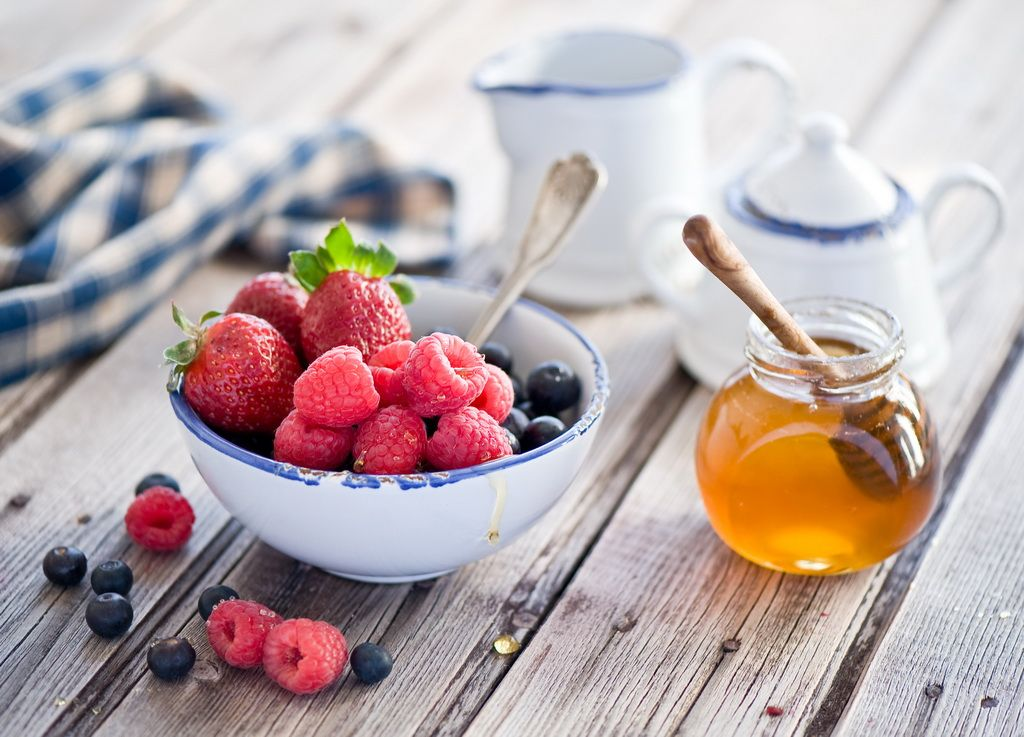
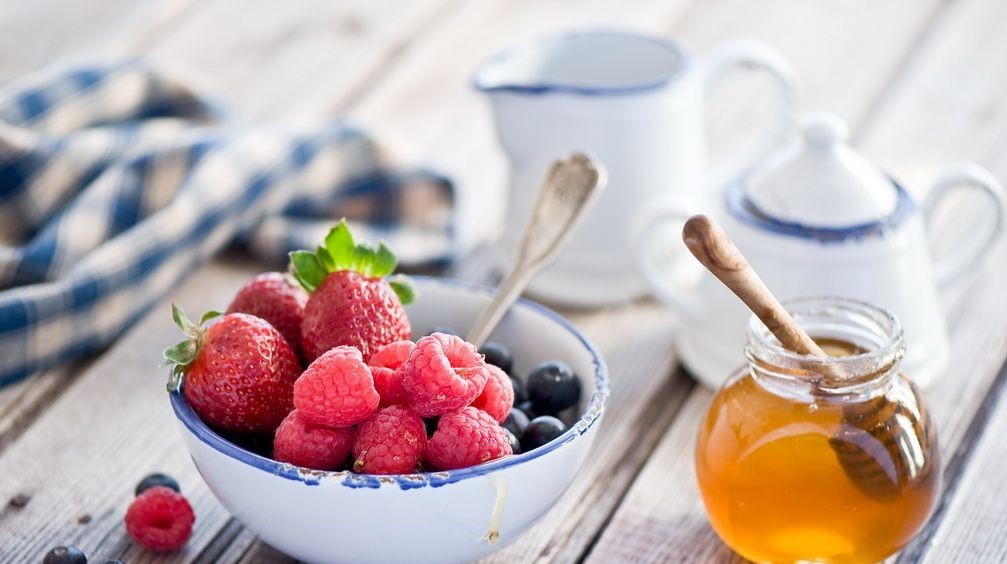
footer update

diff --git a/css/styl.css b/css/styl.css
@@ -46,7 +46,7 @@ html{
     min-height: 100%;
 }
 #carousel{
-   min-height: 45vh;
-    max-height: 65vh;
+   min-height: 40vh;
 }
+
 

diff --git a/Views/TemplateBasics.class.php b/Views/TemplateBasics.class.php
@@ -80,7 +80,7 @@ class TemplateBasics {
             ?>
             </div>
             <!-- Footer -->
-            <footer class="page-footer font-small cyan darken-3" id="footer" style="background-color: #1D1F20">
+            <footer class="page-footer font-small cyan darken-3" id="footer"  style="background-color: #1D1F20">
 
                 <!-- Footer Elements -->
                 <div class="container">
@@ -93,14 +93,14 @@ class TemplateBasics {
                             <div class="mb-5 flex-center" >
                                 <div class="form-group ">
                                     <!-- Facebook -->
-                                    <a class="fb-ic">
+                                    <a class="fb-ic" data-toggle="tooltip" title="Facebook">
                                         <i class="fab fa-facebook-f fa-lg white-text mr-md-5 mr-3 fa-2x"> </i>
                                     </a>
                                     <!--Instagram-->
-                                    <a class="ins-ic">
+                                    <a class="ins-ic"data-toggle="tooltip" title="Instagram">
                                         <i class="fab fa-instagram fa-lg white-text mr-md-5 mr-3 fa-2x"> </i>
                                     </a>
-                                    <a class="gplus-ic">
+                                    <a class="gplus-ic"data-toggle="tooltip" title="Google plus">
                                         <i class="fab fa-google-plus-g fa-lg white-text mr-md-5 mr-3 fa-2x"> </i>
                                     </a>
 

diff --git a/Views/uvodni_stranka.php b/Views/uvodni_stranka.php
@@ -15,13 +15,13 @@
         </ol>
         <div class="carousel-inner"id="carousel" >
             <div class="carousel-item active">
-                <img class="d-block w-100" src="img/jidlo1.jpg"  alt="prvni" >
+                <img class="d-block w-100" src="img/jidlo1.jpg" height="550"  alt="prvni"id="img" >
             </div>
             <div class="carousel-item">
-                <img class="d-block w-100" src="img/jidlo2.jpg" alt="druhy">
+                <img class="d-block w-100" src="img/jidlo2.jpg" height="550" alt="druhy"id="img">
             </div>
             <div class="carousel-item">
-                <img class="d-block w-100" src="img/jidlo3.jpg" alt="treti">
+                <img class="d-block w-100" src="img/jidlo3.jpg" height="550" alt="treti"id="img">
             </div>
         </div>
         <a class="carousel-control-prev" href="#carouselExampleIndicators" role="button" data-slide="prev">

diff --git a/index.php b/index.php
@@ -41,7 +41,7 @@ class ApplicationStart {
         global $tplData;
 
         $tplData = $controller->show();
-        var_dump($tplData);
+//        var_dump($tplData);
         $tplData['menu'] = [];
         foreach (WEB_PAGES as $key => $p){
             if(isset(WEB_PAGES[$key]['role']) && in_array($tplData['uzivatel']['role'], WEB_PAGES[$key]['role'])){
